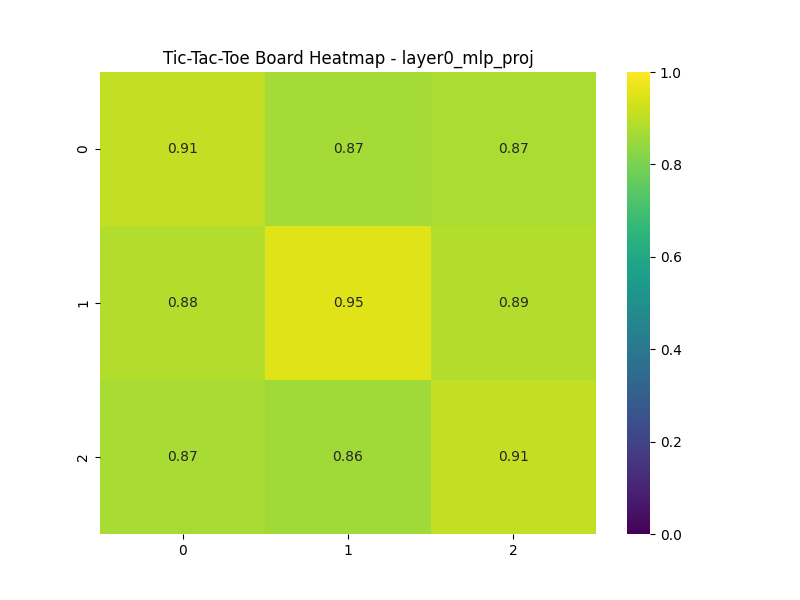
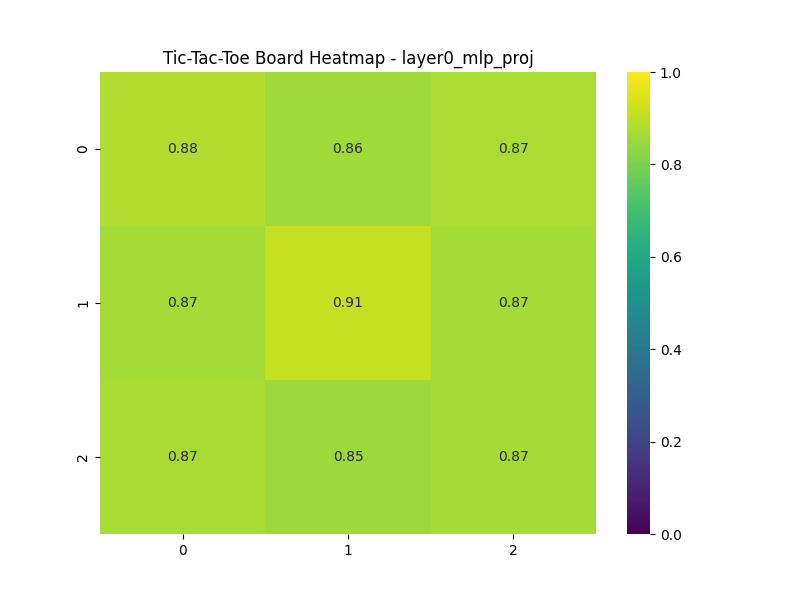
8 layers

diff --git a/config/train_img.py b/config/train_img.py
@@ -17,7 +17,7 @@ batch_size = 2048
 block_size = 144  # context of up to 1023 tokens (because dataset block size is 1024)
 
 # baby GPT model :)
-n_layer = 4
+n_layer = 8
 n_head = 2
 n_embd = 64
 dropout = 0.0

diff --git a/config/train_txt.py b/config/train_txt.py
@@ -17,7 +17,7 @@ batch_size = 2048
 block_size = 35  # context of up to 1023 tokens (because dataset block size is 1024)
 
 # baby GPT model :)
-n_layer = 4
+n_layer = 8
 n_head = 2
 n_embd = 64
 dropout = 0.0
